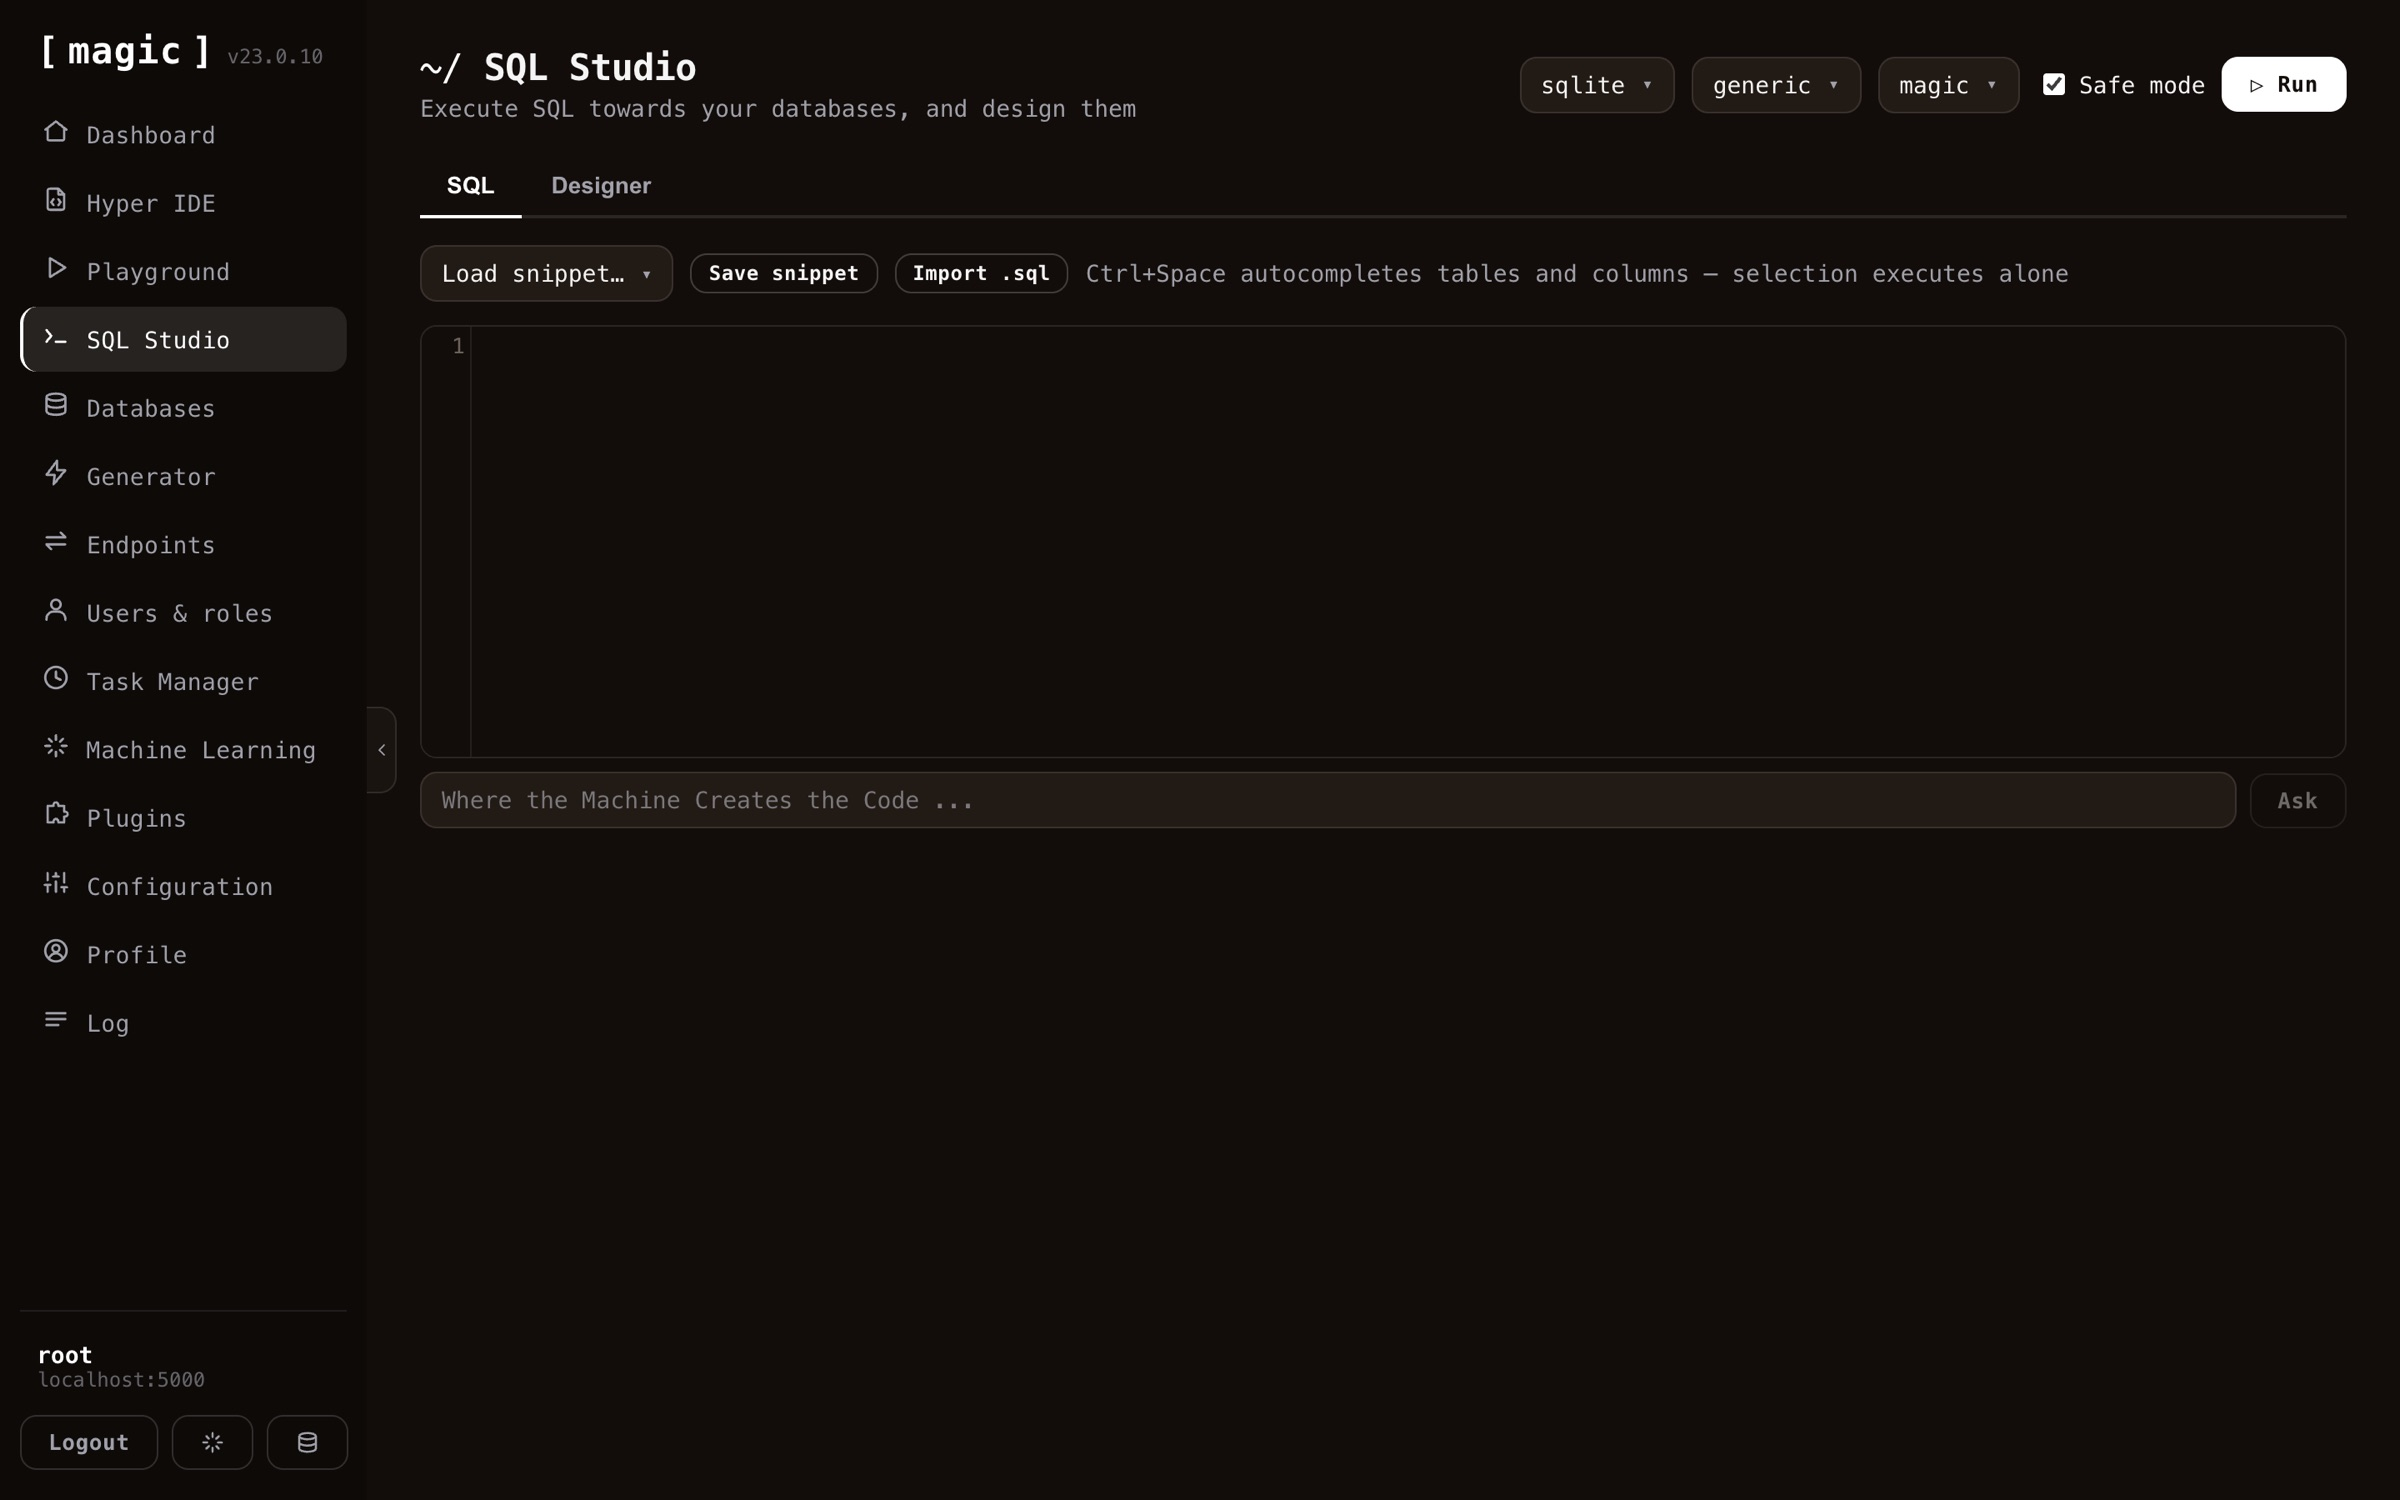
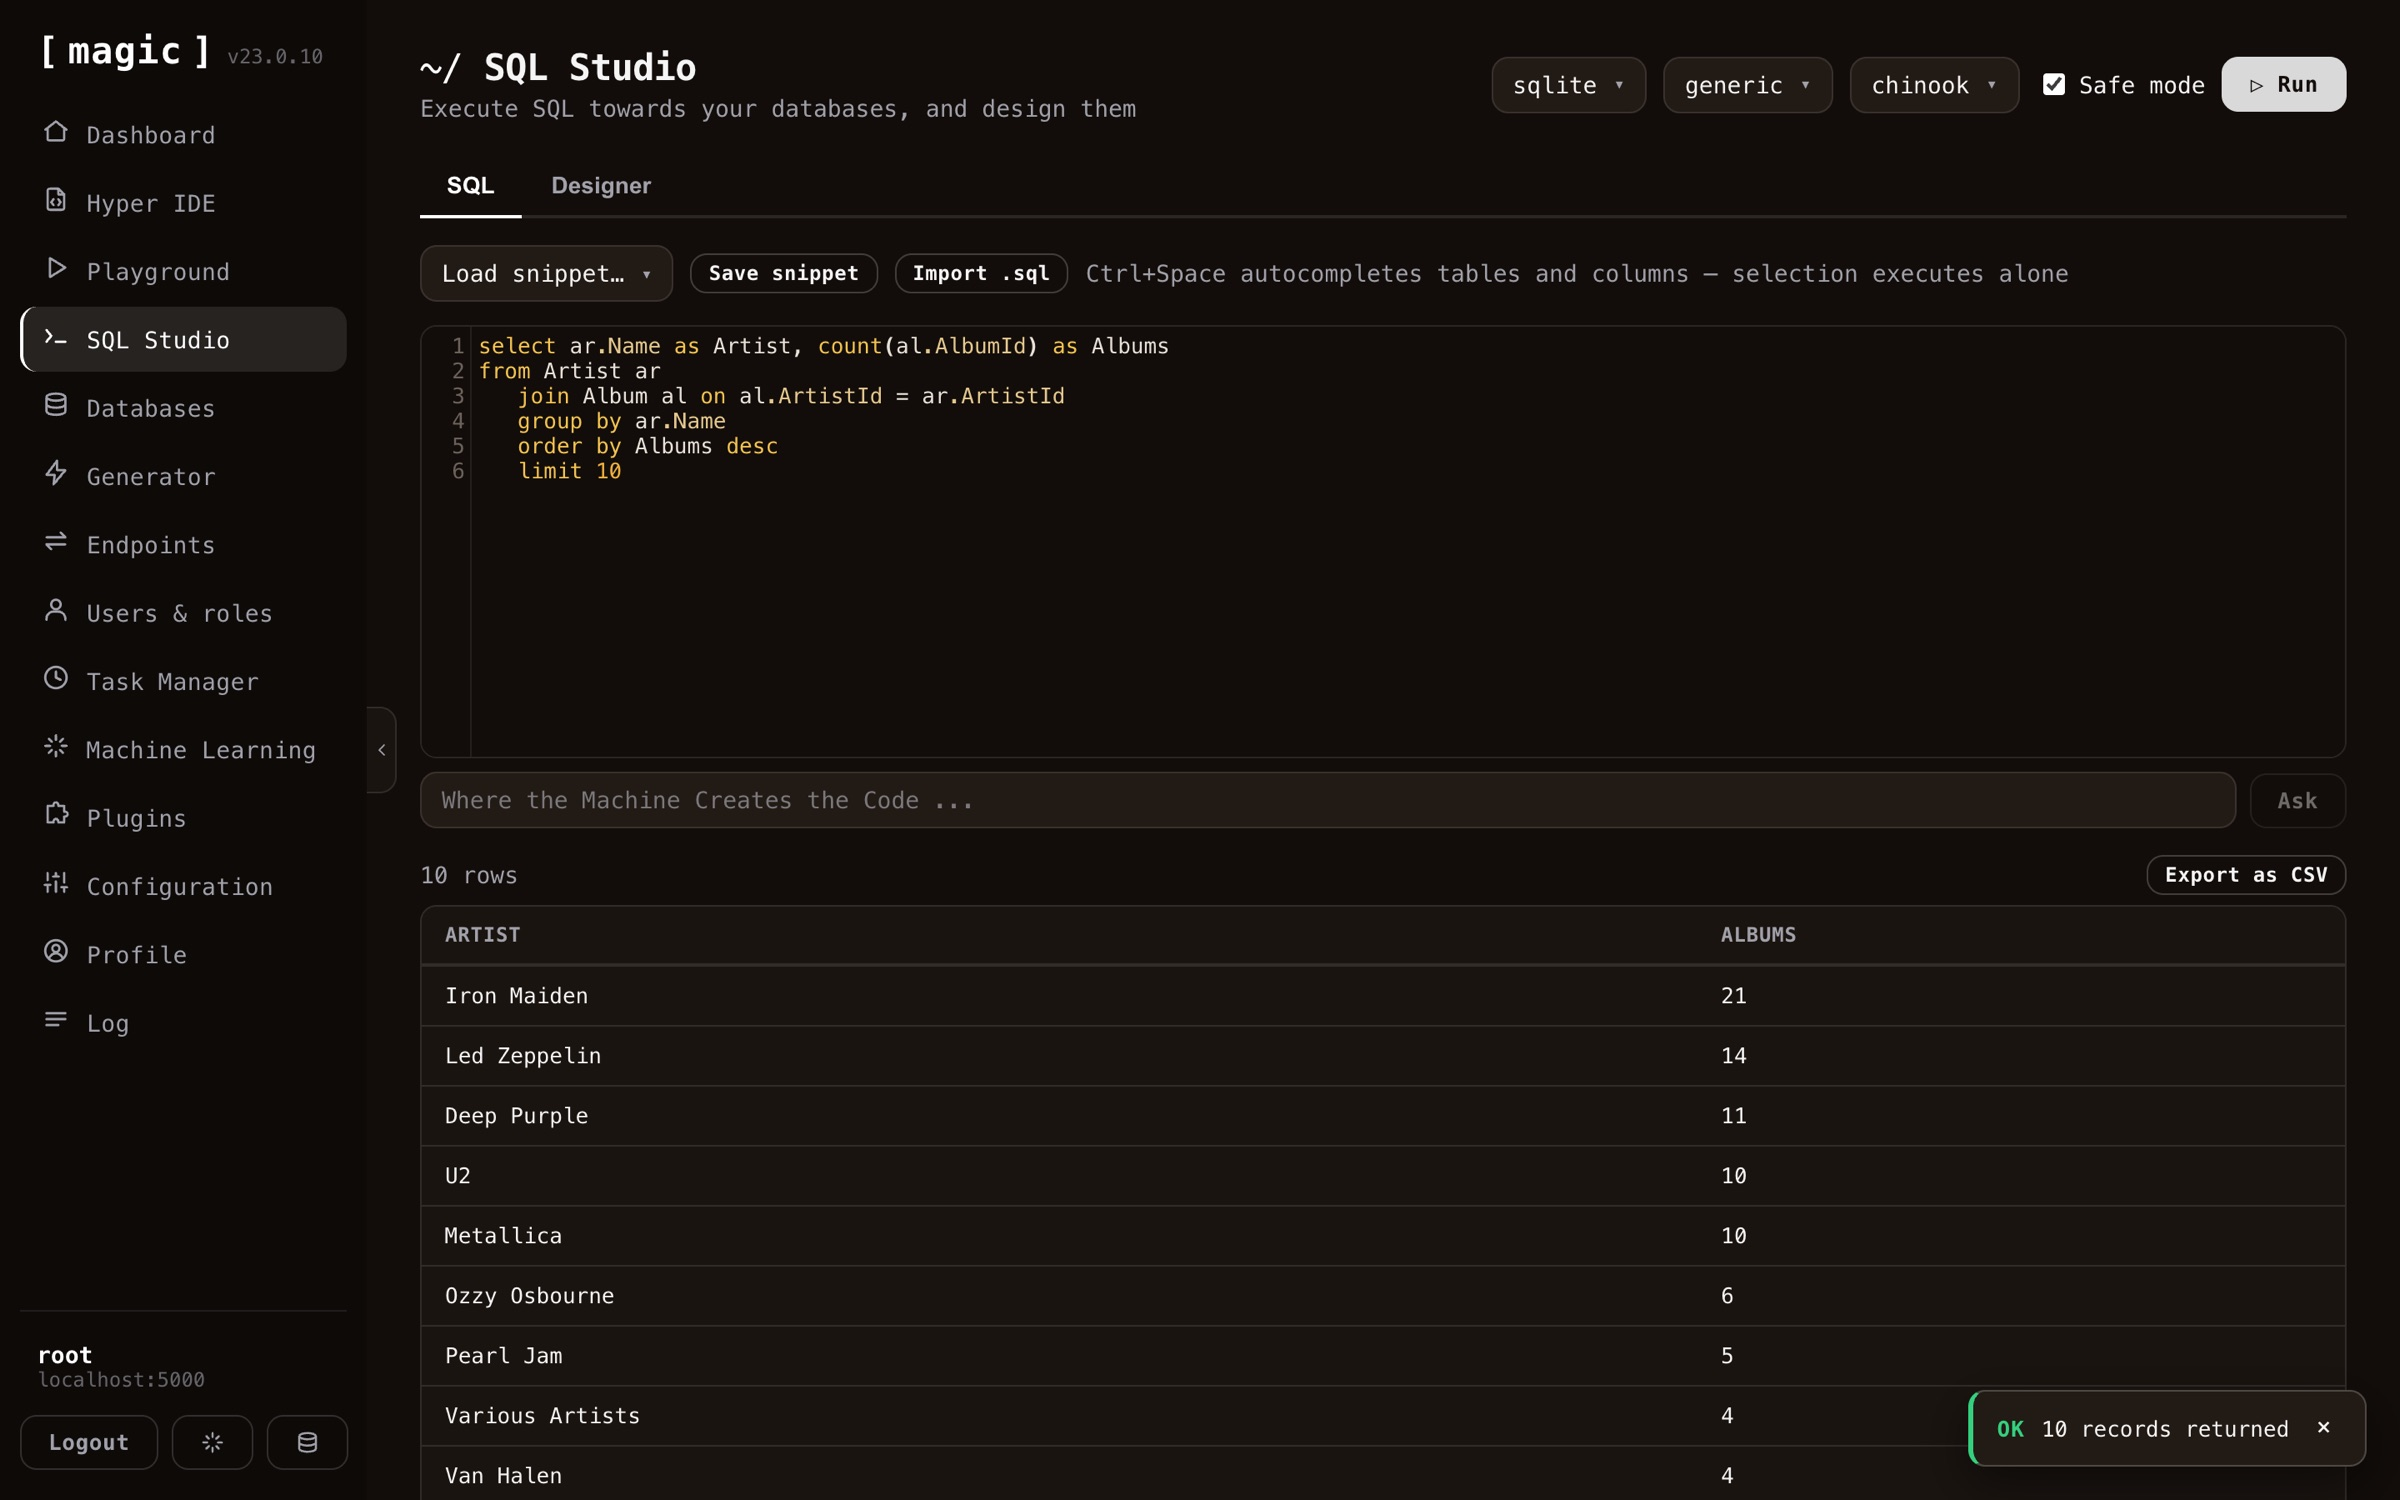
b

diff --git a/dashboard/endpoint-generator/index.md b/dashboard/endpoint-generator/index.md
@@ -31,7 +31,7 @@ In addition to the standard CRUD endpoints, the generator can optionally create 
 
 * **Aggregate** - Creates an endpoint that returns the minimum, maximum, average, sum, or count for a column you specify, grouped by another column. The grouping column is mandatory, so the endpoint always returns your aggregate value per group. This lets you produce totals and statistics directly from your database, without writing any SQL yourself.
 * **Distinct** - Creates an endpoint that returns the unique, distinct values from a column, allowing you to list every value that occurs in a column without duplicates.
-* **Search** - Creates an endpoint that performs a _"keyword density search"_ across your table, ranking each row by how many of your keywords it matches, and sorting the result by _"most matches"_ first. This gives you a simple relevance-ranked, full-text style search endpoint out of the box.
+* **Search** - Creates an endpoint that performs a _"keyword density search"_ across your table, ranking each row by how many of your keywords it matches, and sorting the result by _"most matches"_ first. This gives you a simple relevance-ranked, full-text style search endpoint out of the box. Keyword density search is actually a good substitute for RAG and VSS - it requires no embeddings, no vector database, and no AI inference, yet often yields surprisingly relevant results, making it a great low-cost alternative when you need search but don't need semantic understanding.
 
 ## Endpoint generator settings
 
@@ -51,7 +51,7 @@ Below is a complete list of what settings you can apply when generating your end
 * Paging and sorting, allowing you to turn on or off paging of data and sorting of data
 * Additional GET endpoints, such as aggregate, distinct, and search endpoints, giving you more ways to query your table
 * Turning on or off logging when your create, update and delete endpoints are invoked
-* Caching, implying HTTP cache, or the _"Cache-Control"_ HTTP header, and whether or not to turn on public cache or not, where public caching allows proxies to cache your endpoint's result
+* Caching, implying HTTP cache, or the _"Cache-Control"_ HTTP header, and whether or not to turn on public cache or not, where public caching allows proxies to cache your endpoint's result. Notice, caching is _only_ applied to GET endpoints in this component
 * Overwrite, which if true, will overwrite an existing endpoint. By default, the endpoint generator will _not_ overwrite existing files unless you explicitly tell it to do so
 
 ## Endpoint generator internals

diff --git a/dashboard/sql-studio/index.md b/dashboard/sql-studio/index.md
@@ -16,7 +16,7 @@ plugins using [the plugins component](/dashboard/plugins/), you also typically g
 of example SQL statements - Implying SQL Studio is also a nice place to start out if you
 want to teach yourself SQL. To access the SQL editor open up SQL Studio and click the _"SQL"_ tab.
 
-![Screenshot of SQL Studio in SQL view to execute SQL with syntax highlighting and autocomplete](/images/sql-editor.jpg)
+![Screenshot of SQL Studio having executed a join query, showing the result grid below the editor](/images/sql-editor.jpg)
 
 ## Creating SQL with natural language
 
@@ -27,6 +27,16 @@ Below the SQL editor you'll find an input textbox that says _"Where the Machine 
 You can also use SQL Studio to visually create and design your database. This is a graphical user interface, where you don't need to write any SQL DDL to create your database structure. SQL Studio's database designer allows you to create new tables, add fields to your tables, and create foreign keys referencing other tables as you wish.
 
 ![Screenshot of SQL Studio and its design view allowing you to visually design your databases](/images/sql-designer.jpg)
+
+Creating a new table is as simple as clicking the _"New table"_ button, giving your table a name, and declaring its primary key.
+
+![Screenshot of creating a new table in SQL Studio's designer](/images/sql-new-table.jpg)
+
+Adding a column to an existing table is just as easy - declare its name, type, an optional default value, and whether it's nullable. The same dialog also has a _"Foreign key"_ tab, allowing you to create columns referencing other tables.
+
+![Screenshot of adding a column to a table in SQL Studio's designer](/images/sql-add-column.jpg)
+
+Notice, the designer is optional - you can just as well create your database structure with plain SQL DDL from the SQL view. And you don't even have to write the DDL yourself; ask the _"Where the Machine Creates the Code"_ bar below the SQL editor for something such as _"A CRM system with 3 tables allowing me to manage my contacts"_, and the AI generates the complete DDL for you - tables, primary keys, and foreign keys included - ready to execute.
 
 ## SQL Studio features
 
